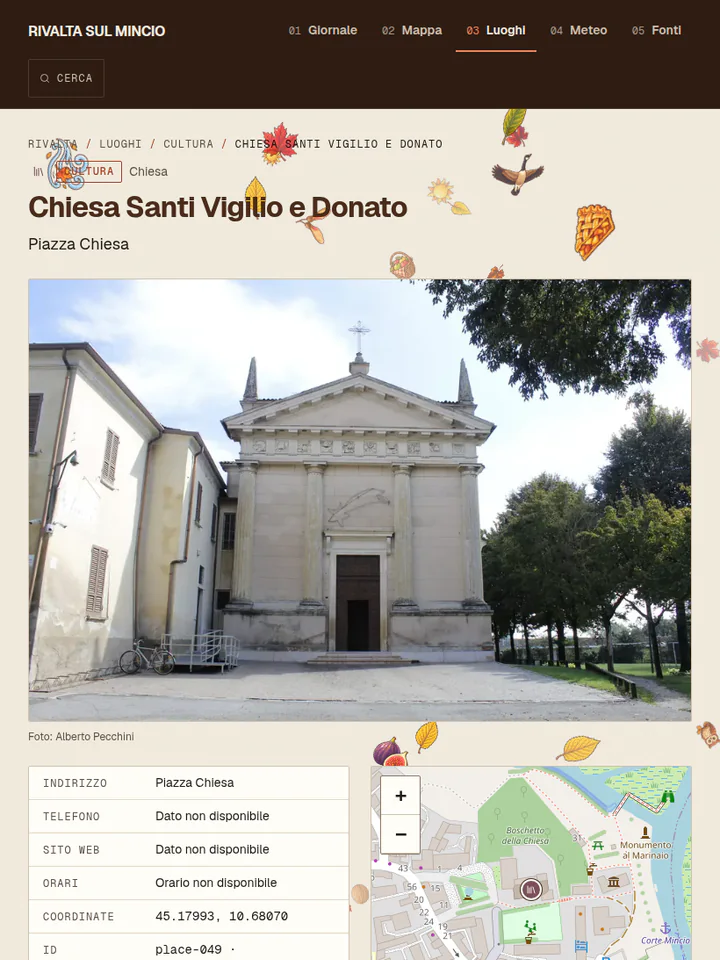
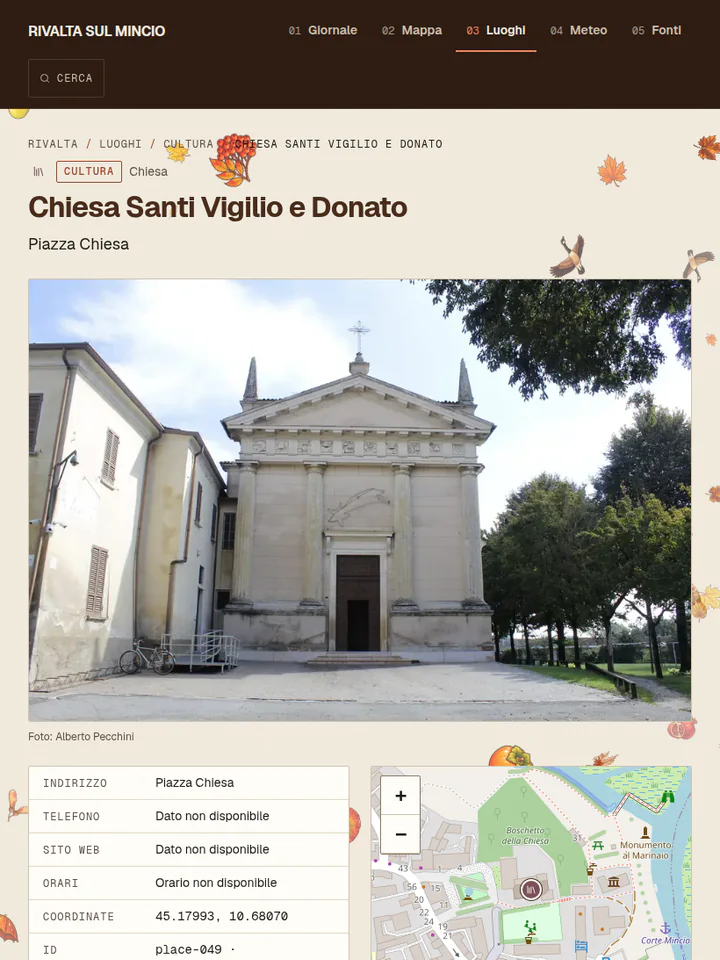
Catture aggiornate: Rivalta sul Mincio
Rifatte da .github/workflows/catture.yml: il sito online era cambiato.

diff --git a/albertopecchini.it/src/data/catture.js b/albertopecchini.it/src/data/catture.js
@@ -28,12 +28,12 @@ export const catture = {
   'dd-mobile-tall.webp': { w: 600, h: 4000, v: '8e1cff59' },
   'dd-mobile.webp': { w: 600, h: 1298, v: '93168203' },
   'dd-tablet.webp': { w: 720, h: 1036, v: '24abfc77' },
-  'rivalta-desktop-tall.webp': { w: 1200, h: 2833, v: '20d0a2e5' },
-  'rivalta-desktop.webp': { w: 1200, h: 750, v: '19cbea8f' },
-  'rivalta-luogo-tablet.webp': { w: 720, h: 960, v: '7da09409' },
-  'rivalta-mappa-desktop.webp': { w: 1200, h: 750, v: '3d5d8ef4' },
-  'rivalta-mappa-mobile.webp': { w: 600, h: 1298, v: 'a22bb341' },
-  'rivalta-mobile-tall.webp': { w: 600, h: 4000, v: '707ba50a' },
-  'rivalta-mobile.webp': { w: 600, h: 1298, v: 'c85c2e02' },
-  'rivalta-tablet.webp': { w: 720, h: 1036, v: '3314d9c8' },
+  'rivalta-desktop-tall.webp': { w: 1200, h: 2833, v: '36ce8c70' },
+  'rivalta-desktop.webp': { w: 1200, h: 750, v: 'ceb52d0d' },
+  'rivalta-luogo-tablet.webp': { w: 720, h: 960, v: '6c749158' },
+  'rivalta-mappa-desktop.webp': { w: 1200, h: 750, v: '5833a946' },
+  'rivalta-mappa-mobile.webp': { w: 600, h: 1298, v: '4734b535' },
+  'rivalta-mobile-tall.webp': { w: 600, h: 4000, v: 'e282c3f8' },
+  'rivalta-mobile.webp': { w: 600, h: 1298, v: 'dc94ea61' },
+  'rivalta-tablet.webp': { w: 720, h: 1036, v: '83b39535' },
 }
